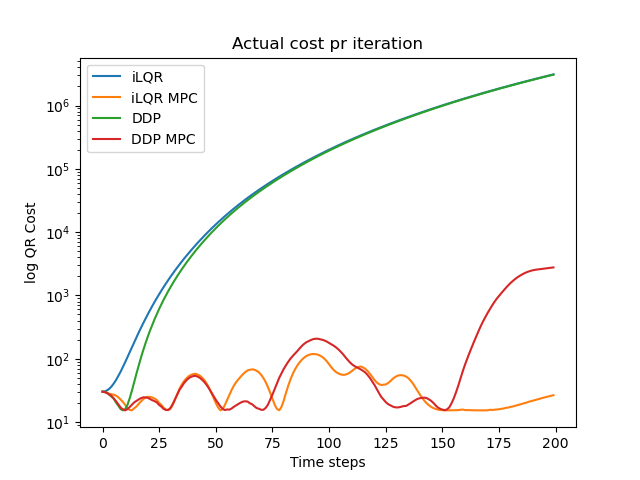
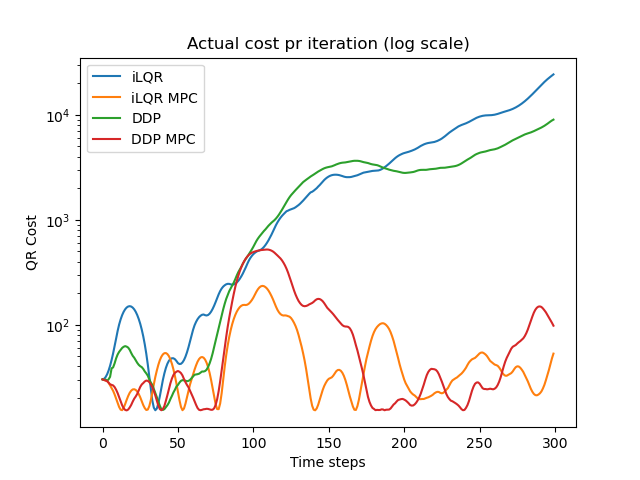
s

diff --git a/results.py b/results.py
@@ -1,15 +1,15 @@
 from load_trajectories import *
-from get_values import get_angle, get_diff, plot_angle, plot_tan2, get_x, plot_cost, get_speed, plot_speed
+from get_values import get_angle, get_diff, plot_angle, plot_tan2, get_x, plot_cost, get_speed, plot_speed, plot_theta,plot_position
 
-c1,c2,c3,c4 = np.zeros((200,1)),np.zeros((200,1)),np.zeros((200,1)),np.zeros((200,1))
-c11,c22,c33,c44 = np.zeros((200,1)),np.zeros((200,1)),np.zeros((200,1)),np.zeros((200,1))
-c_1,c_2,c_3,c_4 = np.zeros((200,1)),np.zeros((200,1)),np.zeros((200,1)),np.zeros((200,1))
-c_11,c_22,c_33,c_44 = np.zeros((200,1)),np.zeros((200,1)),np.zeros((200,1)),np.zeros((200,1))
+c1,c2,c3,c4 = np.zeros((300,1)),np.zeros((300,1)),np.zeros((300,1)),np.zeros((300,1))
+c11,c22,c33,c44 = np.zeros((300,1)),np.zeros((300,1)),np.zeros((300,1)),np.zeros((300,1))
+c_1,c_2,c_3,c_4 = np.zeros((300,1)),np.zeros((300,1)),np.zeros((300,1)),np.zeros((300,1))
+c_11,c_22,c_33,c_44 = np.zeros((300,1)),np.zeros((300,1)),np.zeros((300,1)),np.zeros((300,1))
 
 m1, m2, m3, m4 = get_x(true_ilqr),get_x(true_mpc),get_x(true_ddp_ilqr),get_x(true_ddp_mpc)
 m11, m22, m33, m44 = get_x(model_ilqr),get_x(model_mpc),get_x(model_ddp_ilqr),get_x(model_ddp_mpc)
 
-for i in range(200):
+for i in range(300):
     c1[i], _, _, _, _, _ = QRCost.g(self=cost, x=m1[i], u=ilqr_actions[i], i=None, terminal=False)
     c2[i], _, _, _, _, _ = QRCost.g(self=cost, x= m2[i], u=mpc_actions[i], i=None, terminal=False)
     c3[i], _, _, _, _, _ = QRCost.g(self=cost, x=m3[i], u=ddp_ilqr_actions[i], i=None, terminal=False)
@@ -39,12 +39,20 @@ ddp1_speed = get_speed(true_ddp_mpc)
 plot_speed(ilqr_speed,mpc_speed,"iLQR","iLQR MPC",fig_nr=9,ylabel="X'",fig="speed_ilqr_mpc")
 plot_speed(ddp_speed,ddp1_speed,"DDP","DDP MPC",fig_nr=10,ylabel="X'",fig="speed_ddp_ddpmpc")
 
-plot_cost(c1,c2,c3,c4,title="Actual cost pr iteration",fig="cost_pr_iteration",fig_nr=1)
-plot_cost(c11,c22,c33,c44,title="Actual accumulated cost",fig="accumulated_cost",fig_nr=2)
-plot_cost(c_1,c_2,c_3,c_4,title="Predicted cost pr iteration",fig="cost_pr_iteration_p",fig_nr=3)
-plot_cost(c_11,c_22,c_33,c_44,title="Predicted accumulated cost",fig="accumulated_cost_p",fig_nr=4)
+plot_cost(c1,c2,c3,c4,title="Actual cost pr iteration (log scale)",fig="cost_pr_iteration",fig_nr=1)
+plot_cost(c11,c22,c33,c44,title="Actual accumulated cost (log scale)",fig="accumulated_cost",fig_nr=2)
+plot_cost(c_1,c_2,c_3,c_4,title="Predicted cost pr iteration (log scale)",fig="cost_pr_iteration_p",fig_nr=3)
+plot_cost(c_11,c_22,c_33,c_44,title="Predicted accumulated cost (log scale)",fig="accumulated_cost_p",fig_nr=4)
 
 plot_tan2(sin_ilqr_p,cos_ilqr_p,sin_ilqr_t,cos_ilqr_t,title="iLQR trajectory theta",fig_nr=5,fig="ilqr_theta")
 plot_tan2(sin_mpc_p,cos_mpc_p,sin_mpc_t,cos_mpc_t,title="iLQR MPC trajectory theta",fig_nr=6,fig="mpc_theta")
 plot_tan2(sin_ddp_p,cos_ddp_p,sin_ddp_t,cos_ddp_t,title="DDP trajectory theta",fig_nr=7,fig="ddp_theta")
 plot_tan2(sin_ddp1_p,cos_ddp1_p,sin_ddp1_t,cos_ddp1_t,title="DDP MPC trajectory theta",fig_nr=8,fig="ddp1_theta")
+
+plot_theta(true_ilqr,true_mpc,"iLQR","iLQR MPC","theta'",fig="theta_d_ilqr",fig_nr=11)
+plot_theta(true_ddp_ilqr,true_ddp_mpc,"DDP","DDP MPC","theta'",fig="theta_d_ddp",fig_nr=12)
+
+plot_position(true_ilqr,true_mpc,"iLQR","iLQR MPC","Position x at time step n",fig="x_ilqr",fig_nr=13)
+plot_position(true_ddp_ilqr,true_ddp_mpc,"DDP","DDP MPC","Position x at time step n",fig="x_ddp",fig_nr=14)
+plot_position(true_ilqr,model_ilqr,"Actual position","Predicted position","Position x at time step n for iLQR",fig="x_ilqr_p",fig_nr=15)
+plot_position(true_ddp_ilqr,model_ddp_ilqr,"Actual position","Predicted position","Position x at time step n for DDP",fig="x_ddp_p",fig_nr=16)

diff --git a/load_trajectories.py b/load_trajectories.py
@@ -15,18 +15,18 @@ R = 0.01 * np.eye(action_size)
 cost = QRCost(Q, R, QN=None, x_goal=x_goal)
 env = d_env(dt, cost = cost,l=pole_length, min_bounds = - max_force, max_bounds = max_force)
 
-true_ilqr = pickle.load(open("Trajectories/xs_ilqr_no_mpc.pkl", "rb"))
-model_ilqr = pickle.load(open("Trajectories/xs_predicted_ilqr_no_mpc.pkl", "rb"))
-ilqr_actions = pickle.load(open("Trajectories/us_ilqr_no_mpc.pkl", "rb"))
+true_ilqr = pickle.load(open("Trajectories/xs_ilqr_no_mpc300.pkl", "rb"))
+model_ilqr = pickle.load(open("Trajectories/xs_predicted_ilqr_no_mpc300.pkl", "rb"))
+ilqr_actions = pickle.load(open("Trajectories/us_ilqr_no_mpc300.pkl", "rb"))
 
-true_mpc = pickle.load(open("Trajectories/xs_ilqr_mp.pkl", "rb"))
-model_mpc = pickle.load(open("Trajectories/xs_predicted_ilqr_mp.pkl", "rb"))
-mpc_actions = pickle.load(open("Trajectories/us_ilqr_mp.pkl", "rb"))
+true_mpc = pickle.load(open("Trajectories/xs_ilqr_mpc300.pkl", "rb"))
+model_mpc = pickle.load(open("Trajectories/xs_predicted_ilqr_mpc300.pkl", "rb"))
+mpc_actions = pickle.load(open("Trajectories/us_ilqr_mpc300.pkl", "rb"))
 
-true_ddp_ilqr = pickle.load(open("Trajectories/xs_ddp_no_mpc.pkl", "rb"))
-model_ddp_ilqr = pickle.load(open("Trajectories/xs_predicted_ddp_no_mpc.pkl", "rb"))
-ddp_ilqr_actions = pickle.load(open("Trajectories/us_ddp_no_mpc.pkl", "rb"))
+true_ddp_ilqr = pickle.load(open("Trajectories/xs_ddp_no_mpc300.pkl", "rb"))
+model_ddp_ilqr = pickle.load(open("Trajectories/xs_predicted_ddp_no_mpc300.pkl", "rb"))
+ddp_ilqr_actions = pickle.load(open("Trajectories/us_ddp_no_mpc300.pkl", "rb"))
 
-true_ddp_mpc = pickle.load(open("Trajectories/xs_ddp_mp.pkl", "rb"))
-model_ddp_mpc = pickle.load(open("Trajectories/xs_predicted_ddp_mp.pkl", "rb"))
-ddp_mpc_actions = pickle.load(open("Trajectories/us_ddp_mp.pkl", "rb"))
+true_ddp_mpc = pickle.load(open("Trajectories/xs_ddp_mpc300.pkl", "rb"))
+model_ddp_mpc = pickle.load(open("Trajectories/xs_predicted_ddp_mpc300.pkl", "rb"))
+ddp_mpc_actions = pickle.load(open("Trajectories/us_ddp_mpc300.pkl", "rb"))

diff --git a/get_values.py b/get_values.py
@@ -12,7 +12,7 @@ def get_x(model):
 
 def get_speed(model):
     k = 0
-    x = np.zeros((201, 1))
+    x = np.zeros((301, 1))
     for i in model:
         x[k] = i[1]
         k += 1
@@ -76,6 +76,48 @@ def plot_tan2(sin1,cos1,sin2,cos2,title,fig,fig_nr):
     plt.savefig(fig)
     plt.show()
 
+def plot_theta(model1,model2,m1,m2,title,fig,fig_nr):
+    k = 0
+    x1 = np.zeros((301, 1))
+    for i in model1:
+        x1[k] = i[4]
+        k += 1
+    k = 0
+    x2 = np.zeros((301, 1))
+    for i in model2:
+        x2[k] = i[4]
+        k += 1
+    plt.figure(fig_nr)
+    plt.plot(x1)
+    plt.plot(x2)
+    plt.legend([m1, m2])
+    plt.xlabel("Time steps")
+    plt.ylabel("theta'")
+    plt.title(title)
+    plt.savefig(fig)
+    plt.show()
+
+def plot_position(model1,model2,m1,m2,title,fig,fig_nr):
+    k = 0
+    x1 = np.zeros((301, 1))
+    for i in model1:
+        x1[k] = i[0]
+        k += 1
+    k = 0
+    x2 = np.zeros((301, 1))
+    for i in model2:
+        x2[k] = i[0]
+        k += 1
+    plt.figure(fig_nr)
+    plt.plot(x1)
+    plt.plot(x2)
+    plt.legend([m1, m2])
+    plt.xlabel("Time steps")
+    plt.ylabel("Position x")
+    plt.title(title)
+    plt.savefig(fig)
+    plt.show()
+
 def plot_cost(c1,c2,c3,c4,title,fig,fig_nr):
     plt.figure(fig_nr)
     plt.plot(c1)
@@ -83,7 +125,7 @@ def plot_cost(c1,c2,c3,c4,title,fig,fig_nr):
     plt.plot(c3)
     plt.plot(c4)
     plt.xlabel("Time steps")
-    plt.ylabel("log QR Cost")
+    plt.ylabel("QR Cost")
     plt.semilogy()
     plt.legend(["iLQR", "iLQR MPC", "DDP", "DDP MPC"])
     plt.title(title)
